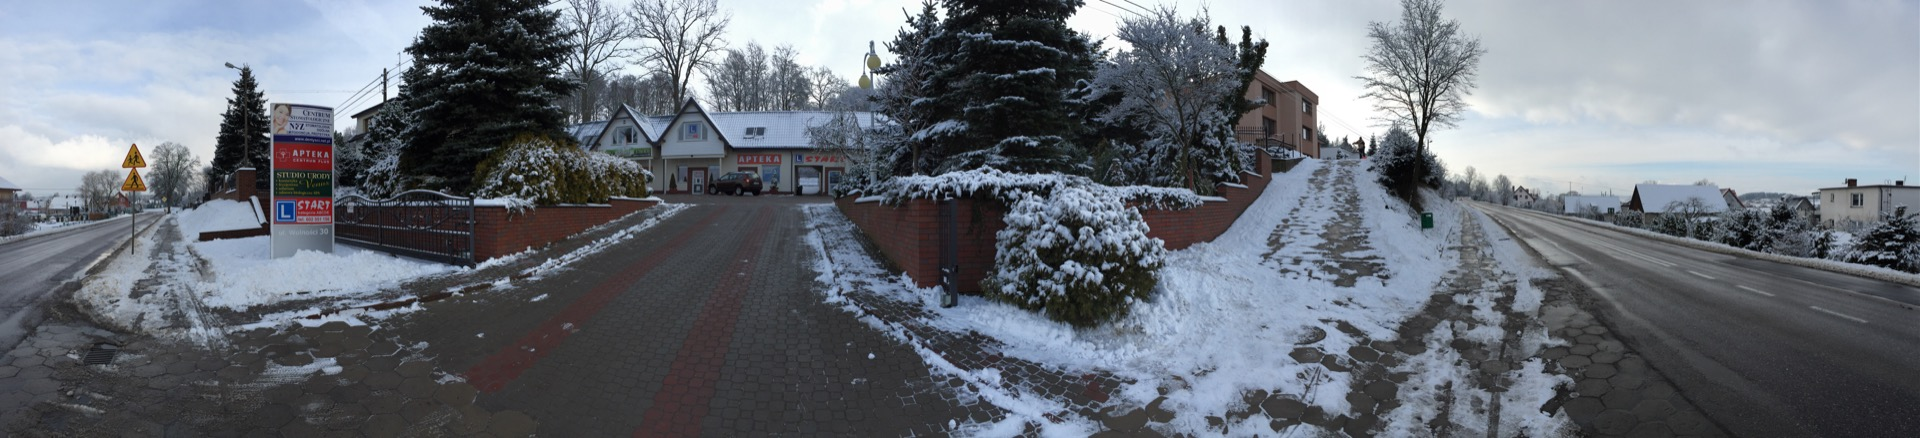
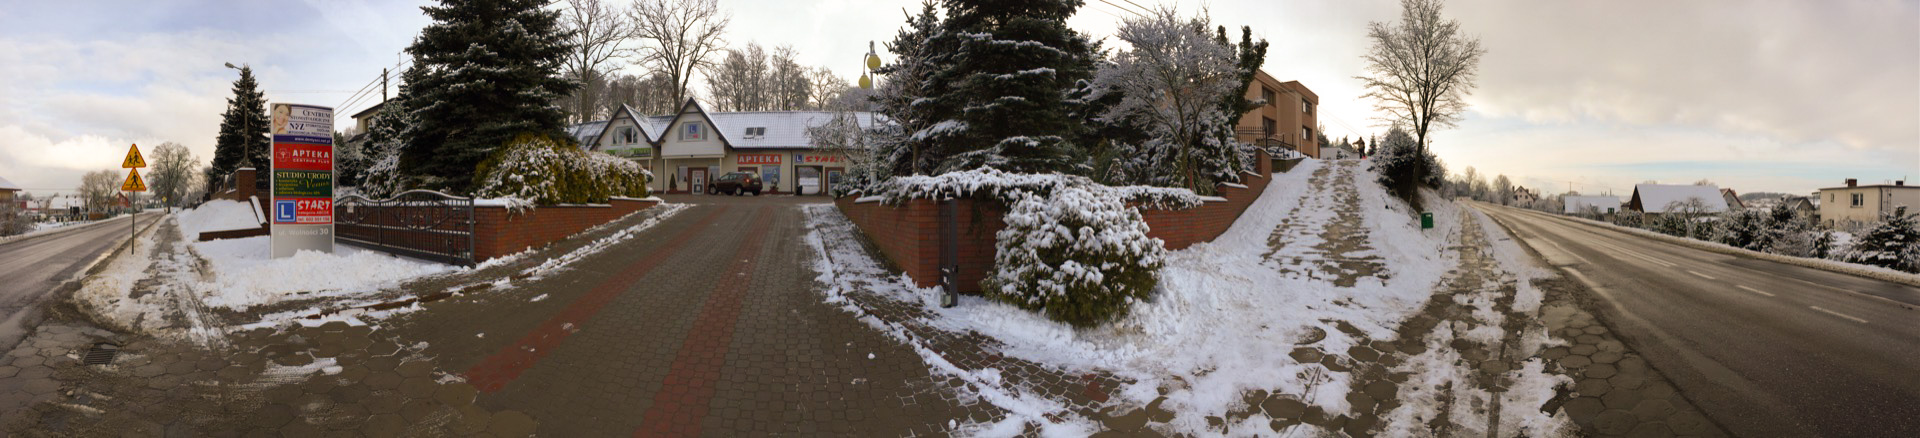
ImageOptim for header.jpg file

diff --git a/index.html b/index.html
@@ -50,7 +50,7 @@
       <div class="clear"></div>
     </section>
 
-    <img src="assets/images/header2.jpg" class="panorama" />
+    <img src="assets/images/header.jpg" class="panorama" />
     <div id="map"></div>
   </body>
 </html>
